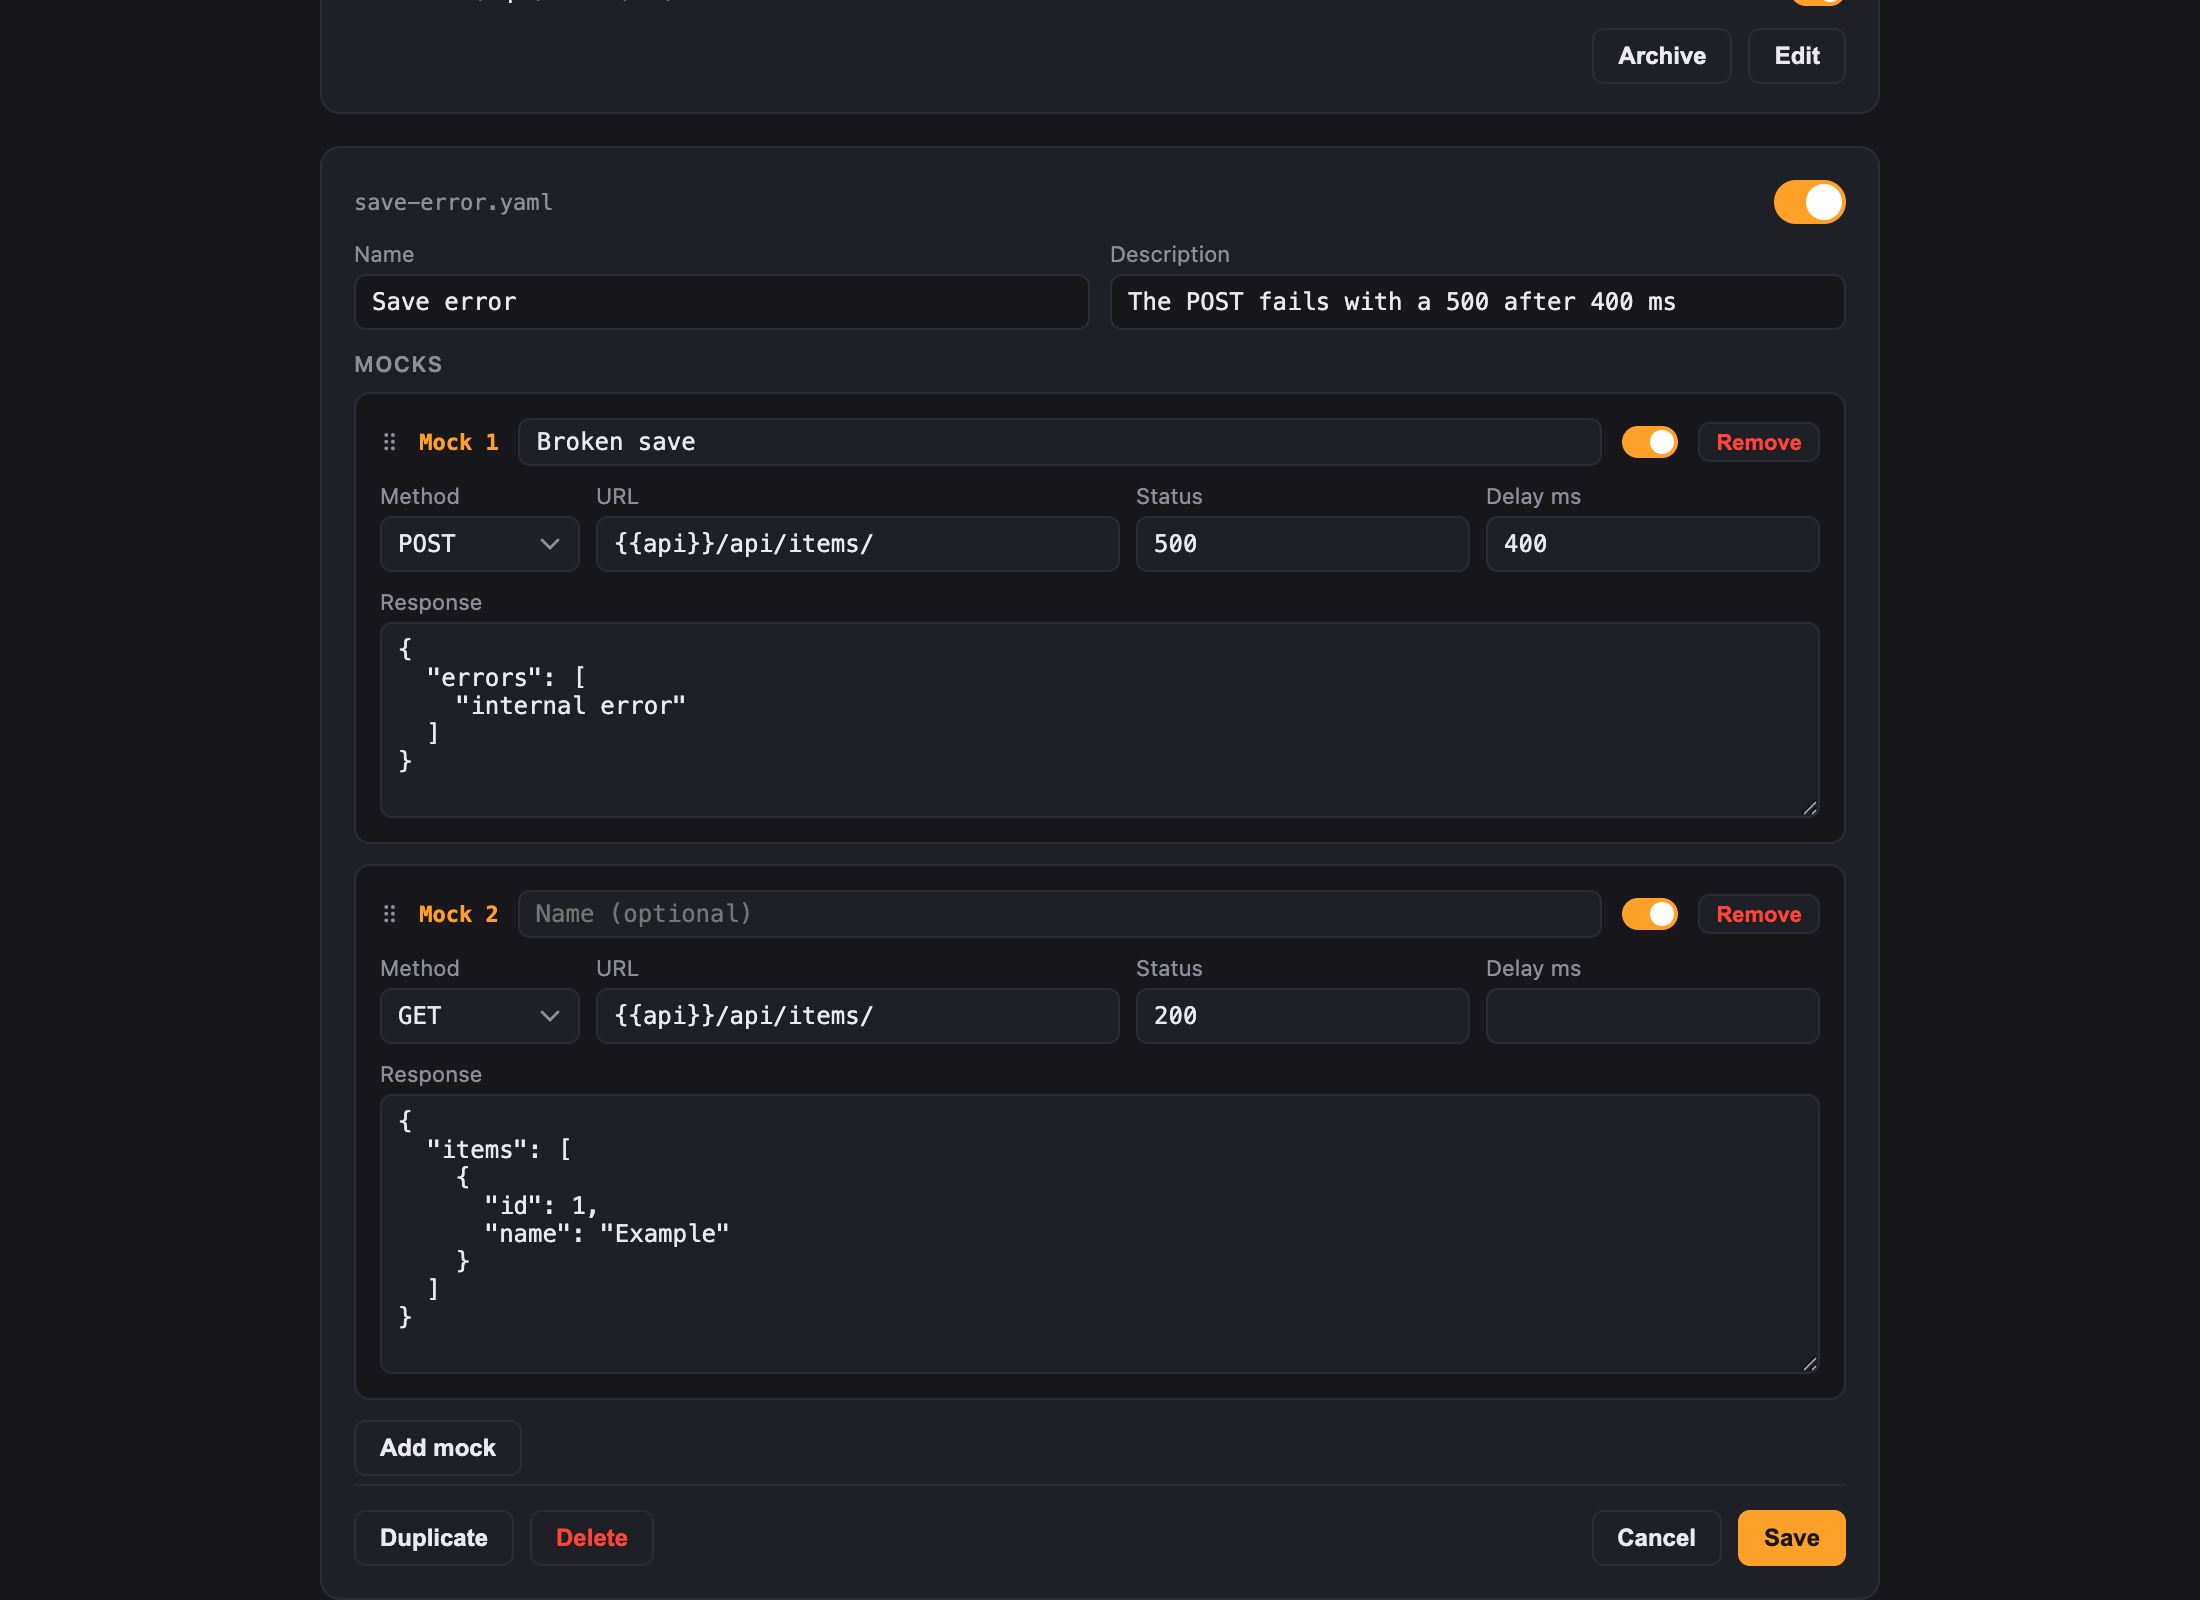
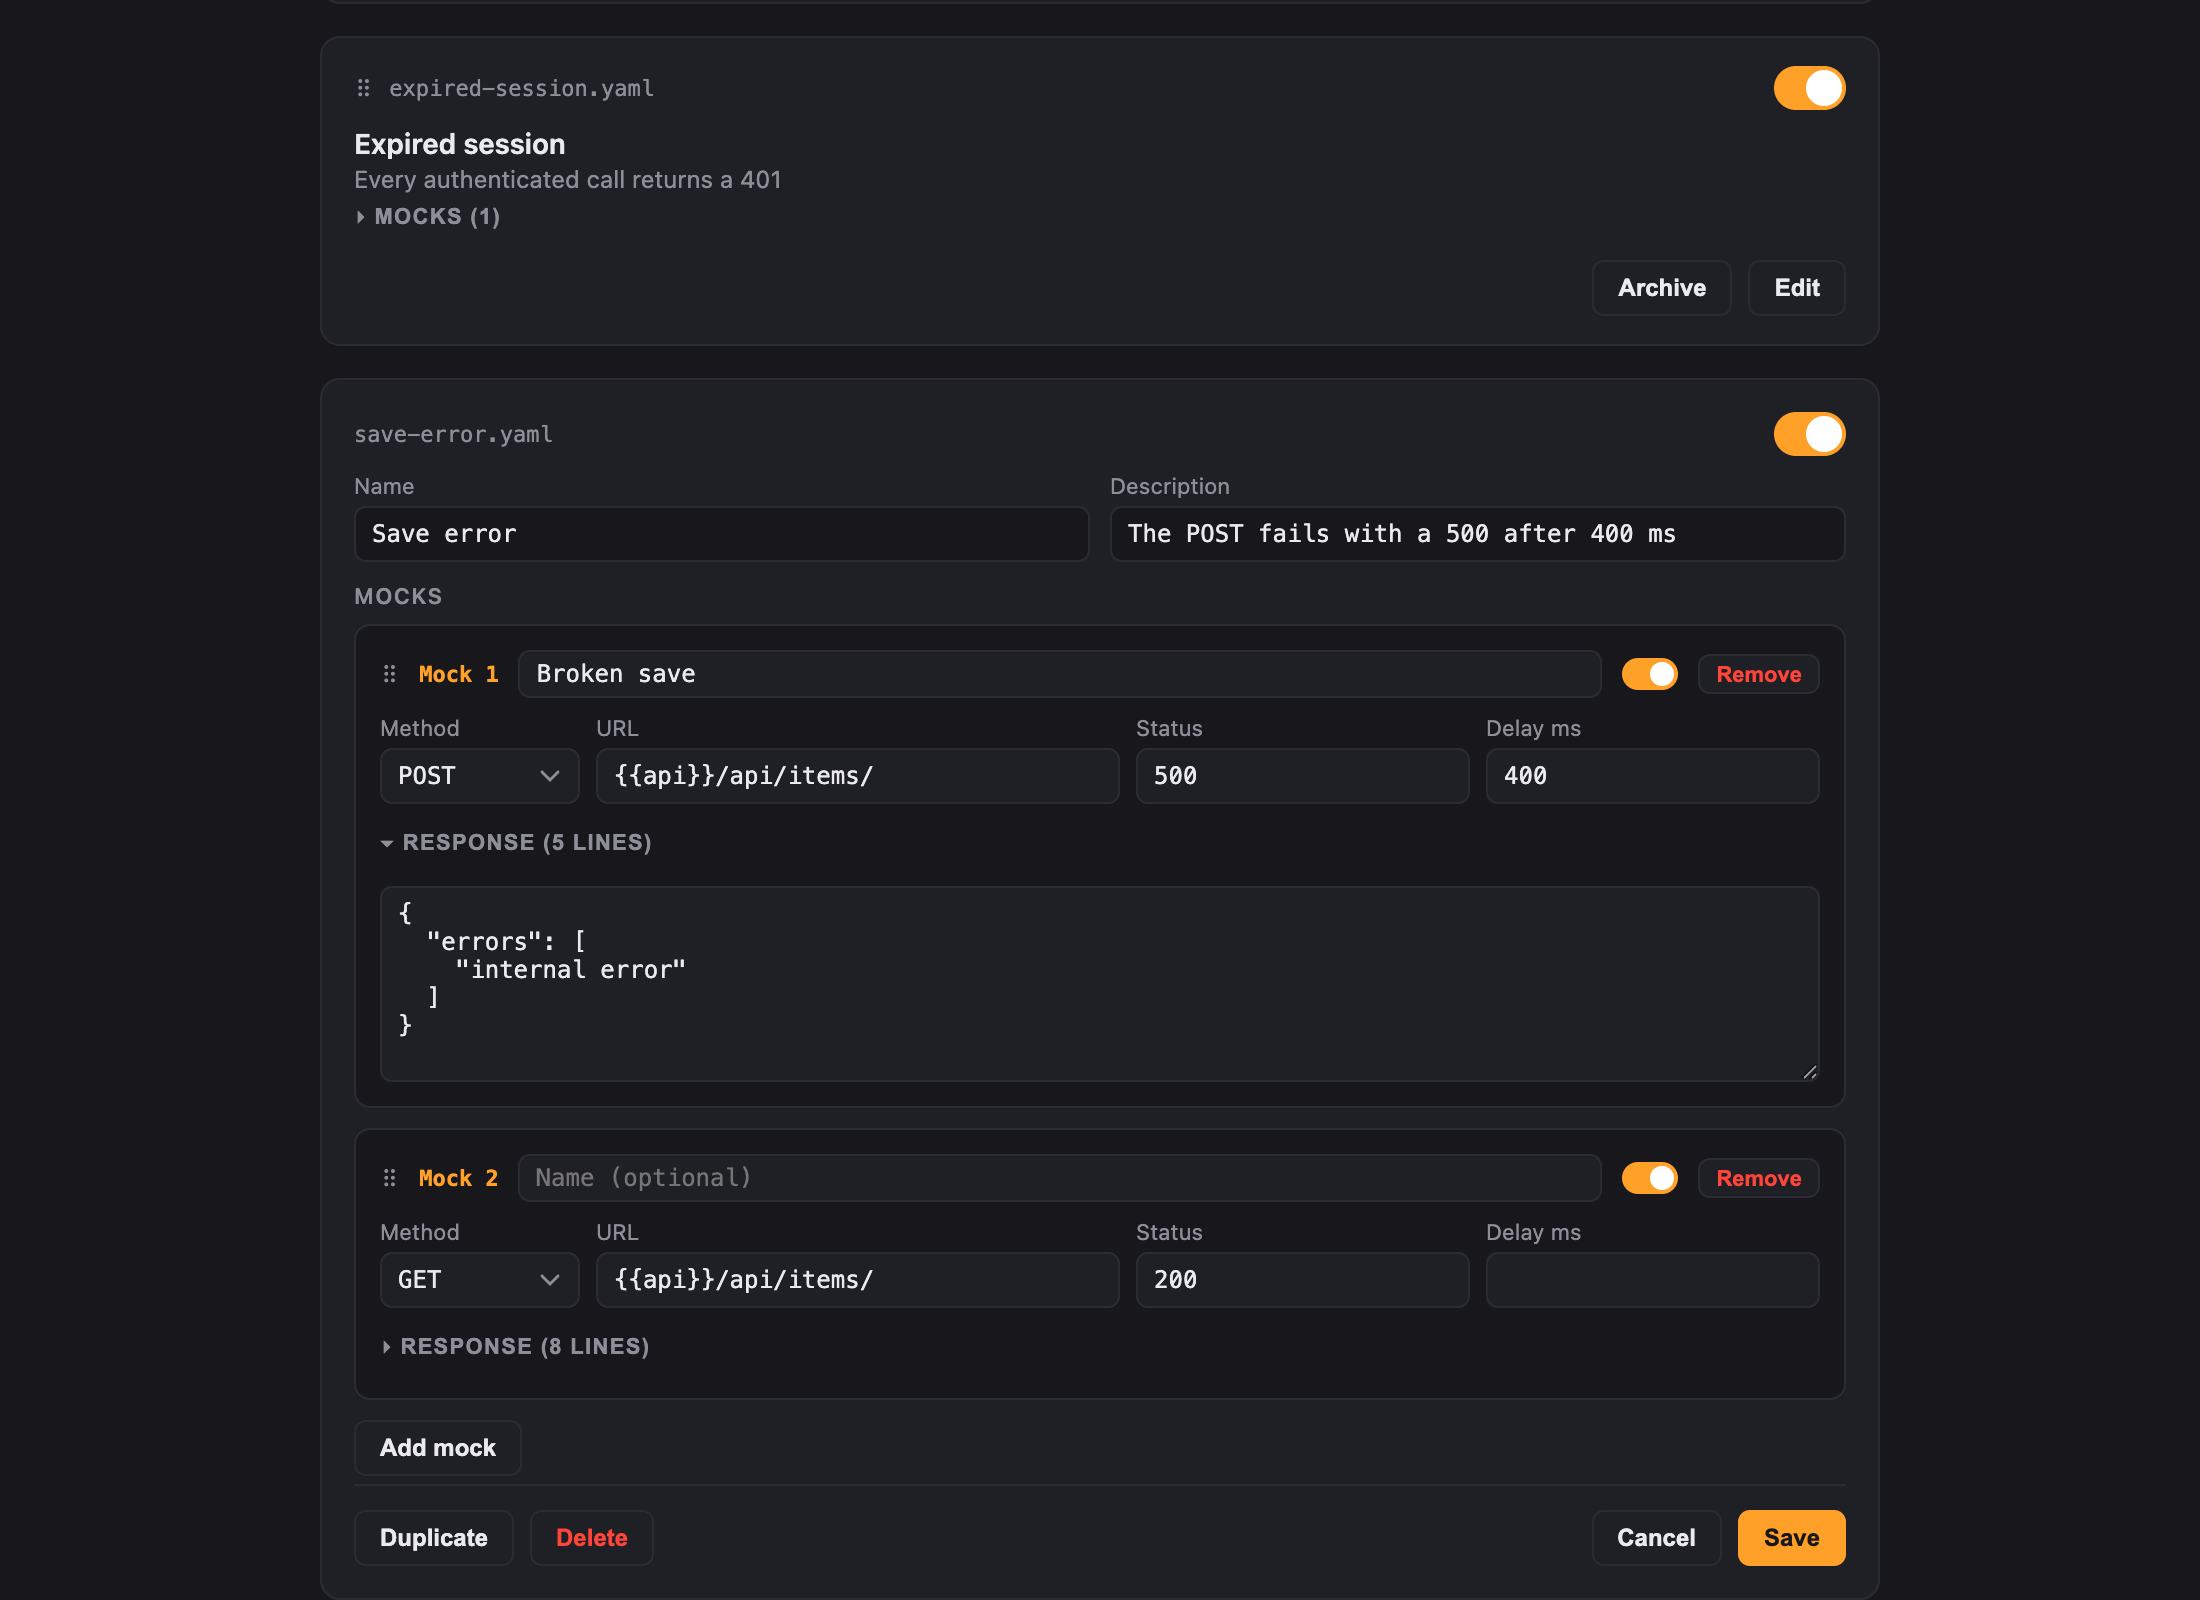
feat: collapse mock lists in read mode and responses in edit mode
Both settings lists grew unreadable on real projects: a scenario with dozens
of mocks buried the next scenario, and in edit mode the response textareas
pushed method and url off screen.

- Read mode: mock rows live behind a `▸ Mocks (n)` toggle, collapsed by
  default, so the page reads as an index of scenarios. Expansion is tracked
  per scenario id outside the render, so it survives repaints (an activation
  toggle no longer folds the list back).
- Edit mode: each response is behind its own `▸ Response (n lines)` toggle,
  collapsed by default; expanding it re-runs autoGrow so the textarea still
  sizes itself to the content. Method, url, status and delay stay visible.

Screenshots regenerated with one scenario and one response expanded, so the
docs show both states.

e2e: 85 checks, 7 new — default collapsed state and both directions of each
toggle, plus the url staying visible with the response folded.

diff --git a/extension/src/options/options.ts b/extension/src/options/options.ts
@@ -69,6 +69,9 @@ function applyPendingFocus() {
 }
 let environmentsExpanded = false
 let archivedExpanded = false
+// escenarios con su lista de mocks desplegada en modo lectura (por id): vive
+// fuera del render para sobrevivir a los repintados
+const expandedReadMocks = new Set<string>()
 const mockReaders = new WeakMap<Element, () => Mock>()
 
 const REORDER_COOLDOWN_MILLISECONDS = 140
@@ -303,6 +306,12 @@ function autoGrow(textarea: HTMLTextAreaElement) {
   textarea.style.height = `${textarea.scrollHeight + 2}px`
 }
 
+function responseSummary(value: string): string {
+  if (!value.trim()) return '(empty)'
+  const lines = value.trimEnd().split('\n').length
+  return lines > 1 ? `(${lines} lines)` : `(${value.trim().length} chars)`
+}
+
 function buildField(
   label: string,
   input: HTMLElement,
@@ -510,7 +519,29 @@ function buildMockEditor(
     autoGrow(responseInput)
   })
 
-  container.append(header, firstRow, buildField('Response', responseInput))
+  // el rótulo lo pone ya el propio toggle, así que el campo va sin caption
+  const responseField = document.createElement('label')
+  responseField.className = 'field'
+  responseField.append(responseInput)
+
+  // Los responses son el bloque más largo del editor: se pliegan por defecto
+  // para poder ver de un vistazo los métodos y urls de todos los mocks.
+  const responseToggle = document.createElement('button')
+  responseToggle.className = 'card__mocks-title card__mocks-title--toggle'
+  let responseExpanded = false
+  const syncResponseVisibility = () => {
+    responseToggle.textContent = `${responseExpanded ? '▾' : '▸'} Response ${responseSummary(responseInput.value)}`
+    responseField.hidden = !responseExpanded
+    if (responseExpanded) autoGrow(responseInput)
+  }
+  responseToggle.addEventListener('click', () => {
+    responseExpanded = !responseExpanded
+    syncResponseVisibility()
+  })
+  responseInput.addEventListener('input', () => syncResponseVisibility())
+  syncResponseVisibility()
+
+  container.append(header, firstRow, responseToggle, responseField)
 
   mockReaders.set(container, () => {
     const delay = Number(delayInput.value)
@@ -848,6 +879,9 @@ function buildScenarioReadCard(
     card.append(description)
   }
 
+  const mocksToggle = document.createElement('button')
+  mocksToggle.className = 'card__mocks-title card__mocks-title--toggle'
+
   const mocksList = document.createElement('div')
   mocksList.className = 'card__read-mocks'
   mocksList.replaceChildren(
@@ -889,7 +923,26 @@ function buildScenarioReadCard(
       return row
     }),
   )
-  card.append(mocksList)
+
+  // Un escenario puede tener decenas de mocks: la lista arranca plegada para
+  // que la página se lea como un índice de escenarios, no como un listado
+  // interminable de endpoints.
+  const syncMocksVisibility = () => {
+    const expanded = expandedReadMocks.has(scenario.id)
+    mocksToggle.textContent = `${expanded ? '▾' : '▸'} Mocks (${scenario.mocks.length})`
+    mocksList.hidden = !expanded
+  }
+  mocksToggle.addEventListener('click', () => {
+    if (expandedReadMocks.has(scenario.id)) {
+      expandedReadMocks.delete(scenario.id)
+    } else {
+      expandedReadMocks.add(scenario.id)
+    }
+    syncMocksVisibility()
+  })
+  syncMocksVisibility()
+
+  card.append(mocksToggle, mocksList)
 
   const footer = document.createElement('div')
   footer.className = 'card__footer card__footer--read'

diff --git a/README.md b/README.md
@@ -170,9 +170,12 @@ the popup are the signals that a mock is working.
 
 The popup button (or `chrome://extensions` → Mocker → Options) opens the
 settings page in a full tab. Scenarios render in **read mode** (name,
-description and compact mock rows with live activation toggles); **Edit**
-opens the full form (name, description, mocks with optional name,
-method/url/status/delay/response), with Cancel to leave without saving,
+description and a `▸ Mocks (n)` toggle that opens compact mock rows with live
+activation toggles — collapsed by default, so the page reads as an index of
+scenarios instead of an endless list of endpoints); **Edit** opens the full
+form (name, description, mocks with optional name,
+method/url/status/delay/response, each response behind its own
+`▸ Response` toggle, also collapsed), with Cancel to leave without saving,
 create, duplicate, **archive** (archived scenarios leave the lists and stop
 intercepting; they live collapsed in the Archived section), **drag to
 reorder** (scenario cards in read mode; mocks by their ⠿ handle in edit
